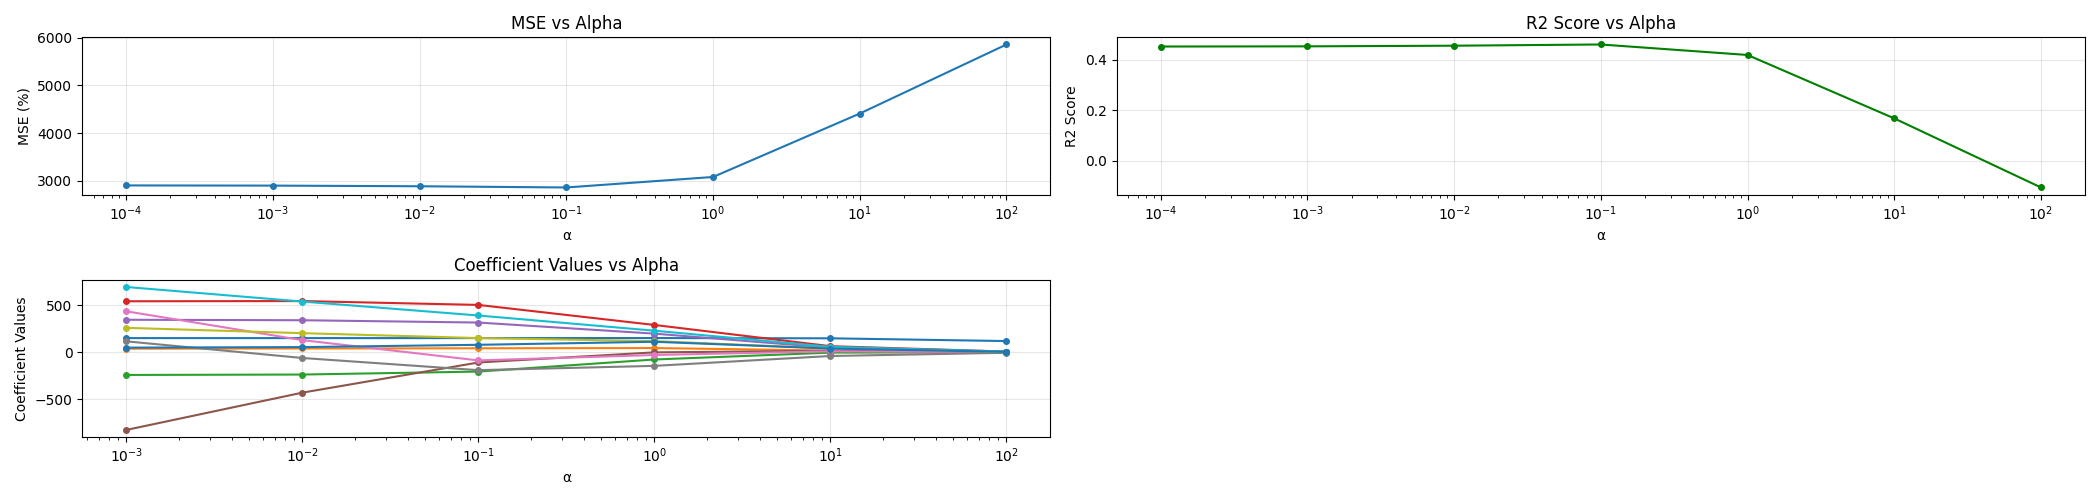
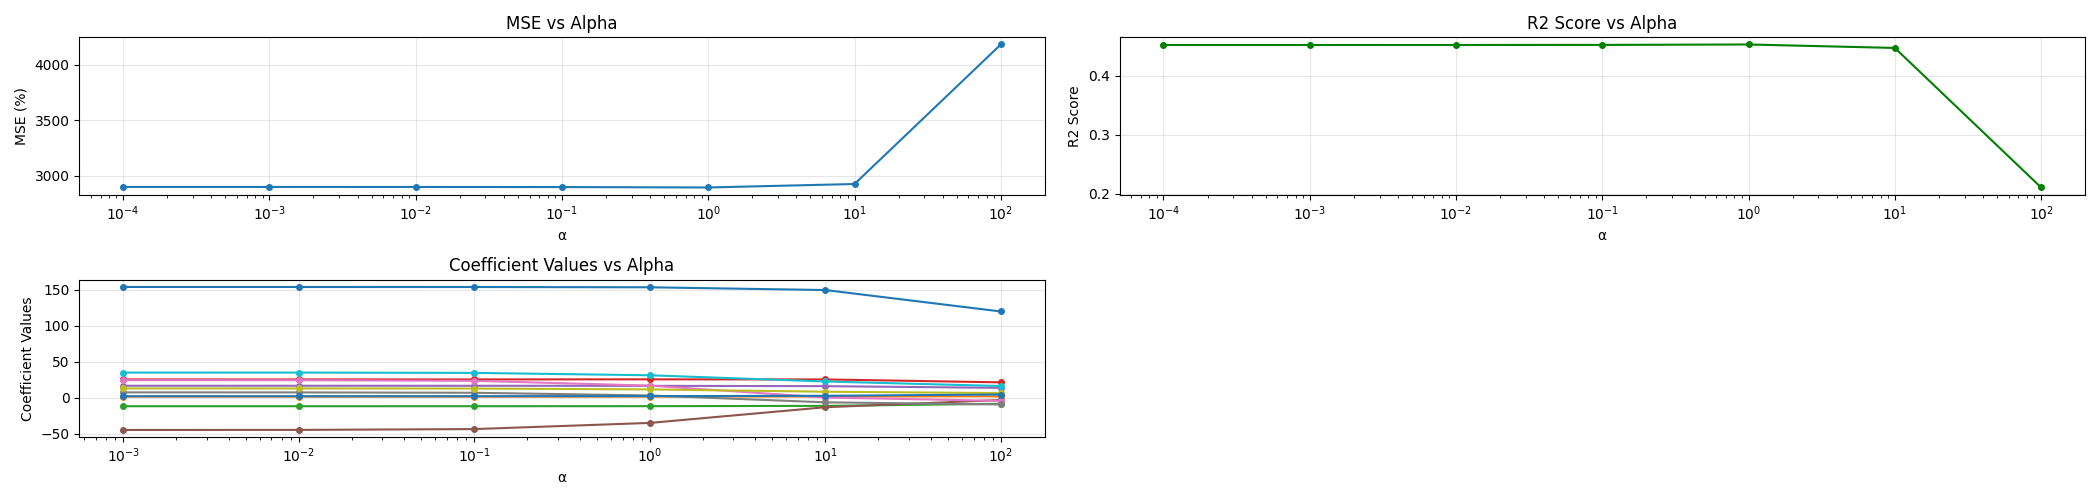
Standardize Dataset + Misc Notes

diff --git a/main/lasso-ridge-comp/check_features.py b/main/lasso-ridge-comp/check_features.py
@@ -1,0 +1,9 @@
+from sklearn.datasets import load_diabetes
+import numpy as np
+
+diabetes = load_diabetes()
+print("Feature names:", diabetes.feature_names)
+print("Number of features:", len(diabetes.feature_names))
+print("X shape:", diabetes.data.shape)
+print("\nFirst row of X:")
+print(diabetes.data[0])

diff --git a/main/lasso-ridge-comp/README.md b/main/lasso-ridge-comp/README.md
@@ -35,7 +35,7 @@ Implemented with **coordinate descent**.
 Include:
 - soft-thresholding operator  
 - α sweep  
-- plots of **sparsity vs α** and **lasso coefficient paths**
+- plot of **lasso coefficient paths**
 
 ---
 
